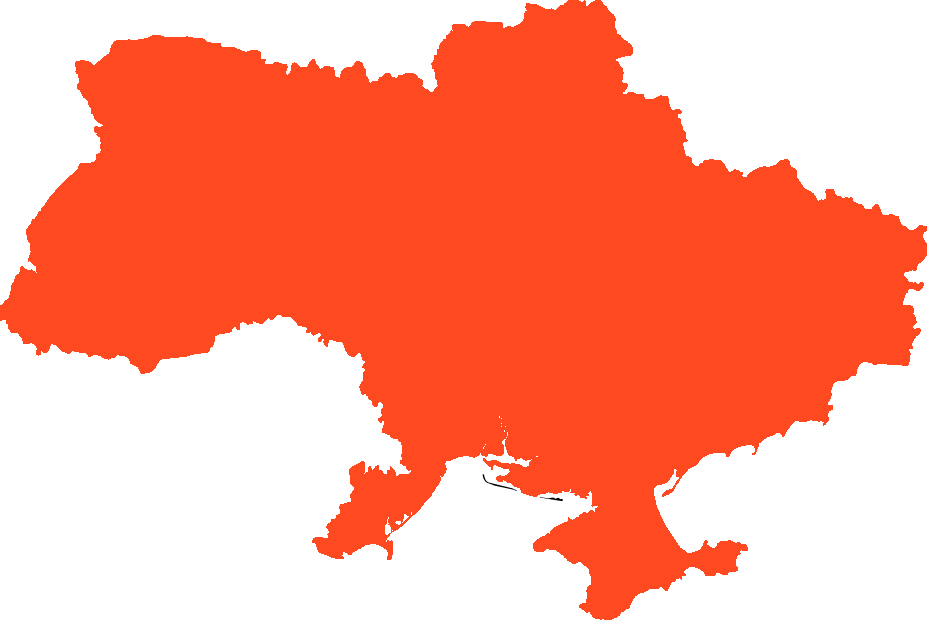
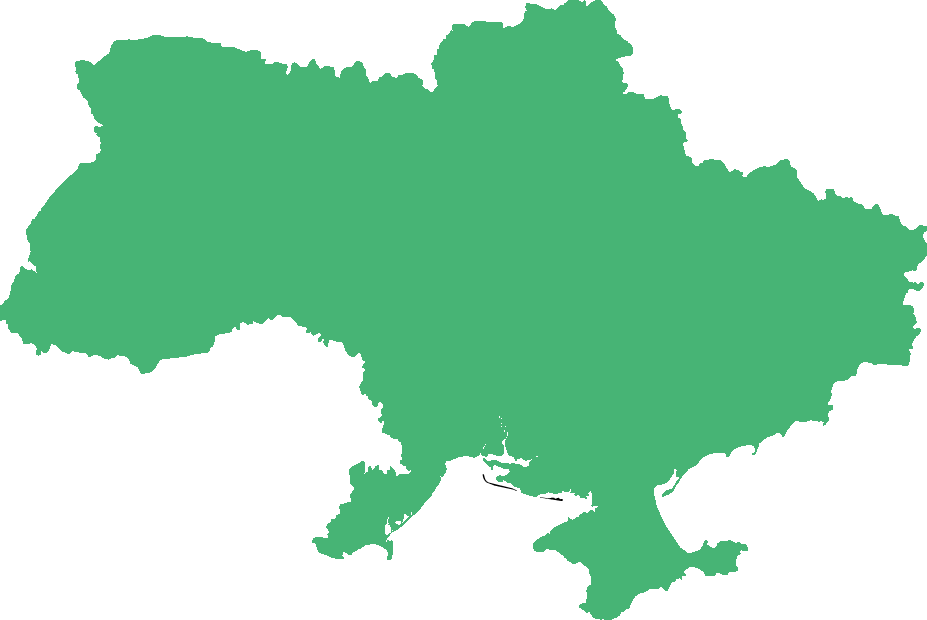
HelpController created; MetaTag updated; PostController updated; CarInfoPageController updated;

diff --git a/public/css/components.css b/public/css/components.css
@@ -195,7 +195,7 @@ p {
 
 hr {
     margin-top: 0!important;
-    border-top: 1px solid #47b475
+    border-top: 1px solid #47b475!important;
 }
 
 .pricing-foot {
